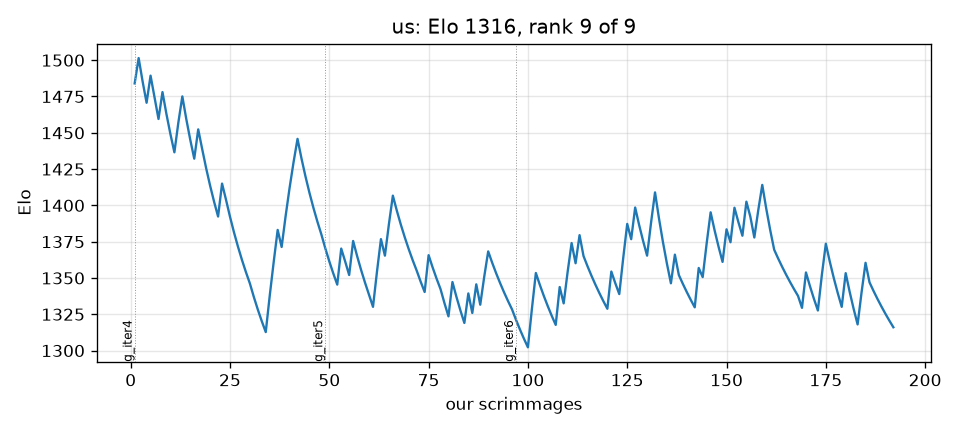
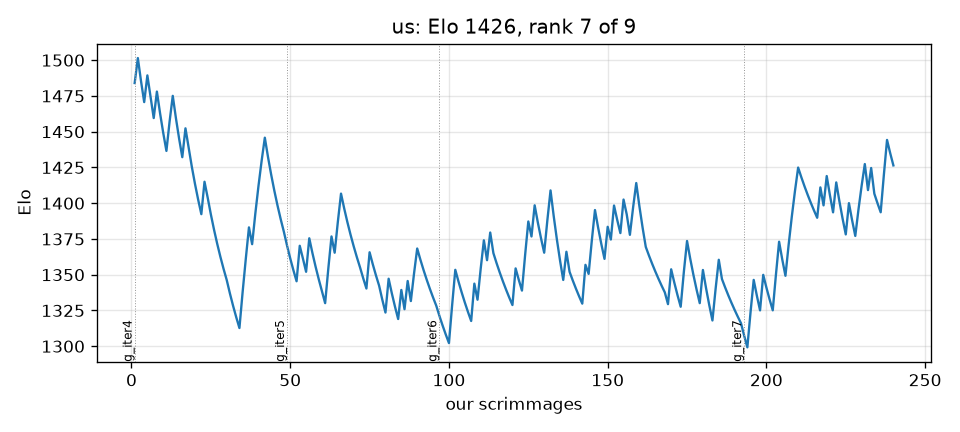
g_iter7 submitted: 19/48 (39.6%), the first submission to beat its predecessors; regression 32/32; the opening fix transferred to the ladder where two previous accepts did not
Claude-Session: https://claude.ai/code/session_01VgeNHsn9ncLsLui8RaK6L7

diff --git a/progress/ELO.md b/progress/ELO.md
@@ -1,17 +1,17 @@
 # Elo ladder
 
-192 scrimmages (ours only); K=32 from 1500; our team is **us**: rank 9 of 9 rated bots, Elo 1316, 192 games; 57 bots not yet met.
+240 scrimmages (ours only); K=32 from 1500; our team is **us**: rank 7 of 9 rated bots, Elo 1426, 240 games; 57 bots not yet met.
 
 | rank | bot | Elo | games | W-L (theirs) |
 |---|---|---|---|---|
-| 1 | awesomelemonade.sprint1bot | 1655 | 24 | 23-1 |
-| 2 | rzhan11.sprint2 | 1638 | 24 | 23-1 |
-| 3 | Scott-Poole.spright8 | 1541 | 24 | 18-6 |
-| 4 | iliao2345.attacker | 1508 | 24 | 18-6 |
-| 5 | 123kevinlee.atomFinalQualifier | 1486 | 24 | 16-8 |
-| 6 | jmerle.camel_case_v7_sprint_2 | 1475 | 24 | 16-8 |
-| 7 | arya-k.quals_v1 | 1452 | 24 | 13-11 |
-| 8 | max-titov.sprintplayer | 1429 | 24 | 12-12 |
-| 9 | **us** | 1316 | 192 | 53-139 |
+| 1 | awesomelemonade.sprint1bot | 1690 | 30 | 29-1 |
+| 2 | rzhan11.sprint2 | 1618 | 30 | 27-3 |
+| 3 | jmerle.camel_case_v7_sprint_2 | 1513 | 30 | 21-9 |
+| 4 | Scott-Poole.spright8 | 1493 | 30 | 21-9 |
+| 5 | iliao2345.attacker | 1483 | 30 | 21-9 |
+| 6 | 123kevinlee.atomFinalQualifier | 1477 | 30 | 20-10 |
+| 7 | **us** | 1426 | 240 | 72-168 |
+| 8 | arya-k.quals_v1 | 1400 | 30 | 15-15 |
+| 9 | max-titov.sprintplayer | 1400 | 30 | 14-16 |
 
 Not yet met (1500 until their first game against us): Ahhorse1.WinstonPlayer, Aryan34.bot, Aryo-Patel.finalBot, BSreenivas0713.musketeerplayerfinal, BattlecodeTeam4.robotalpha, BoluAdubi.bot1, BryceKan3.bot.tournament.sprint, ChiragKalra.gen5, IvanGeffner.thirtyone, JCRaymond.bot.tournament.sprint, JasonYe4273.finals, Mahpare.hackatrainee_v1, OliverMKing.bot.tournament.sprint, SLaGrave.AlphaCentauri, Sihal3.cavShieldv705, StoneT2000.sprinttuna, TeamSerpentine.mars, Techno-coder.muckrakers, TylerQube.sandmenplayer, Victoriano012.SprintBot2, VittalT.final_usqualplayer3_subm, abhishekshree.bot2, aidan-mundy.final_usqualplayer3_subm, alextheimer.player, ama29.v6, angelaloh09.camelmanplayer, anshgs.ho4, astelmach20.piedPiper, davidfang00.Rushbot3, diegorod9000.Newcomer, dominicmkennedy.playerj3, edlwang.sprint2, ehiggins98.initialbot, evan-schott.bugplayer, iyzg.sbot17, jay20162016.ecobot, jjtippetts.influencerforceplayer, mama4294.Maloneplayer, mhahn2003.finals, mhbtz1.presprint, mvpatel2000.biden, naalit.mukrush, nickel-dime.piedPiper, nsortur.piedPiper, paulmure.sprintplayer, pranayagra.finalbot11, qawsedrftgzh.battlecode2021, raytran.dlmoreram010921, rqi3.qualification_bot, ryanbai1412.sprint_0, saivivekvenna.Ba_ba_booie, sasank02.framework3_mr_density, thevaliantthird.bot1, unai-gurbindo.camelmanplayer, winkelmantanner.tannerplayer, woodstockcs.fanandflag, wstan2001.boundfinder

diff --git a/TRAINING_LOG.md b/TRAINING_LOG.md
@@ -2935,6 +2935,40 @@ promising and moved nothing). And the confound audit -- without demoting
 raw metrics I would have spent this candidate on early politician counts,
 which were an artefact of map size.
 
+## `g_iter7` submitted: 19/48 = 39.6% -- the ladder finally moves (2026-09-20 11:40 UTC)
+
+Regression first: **32/32**, a clean sweep of all four archetypes
+(muckraker rush, bidder, politician rush, `arch_big`), up from 31/32.
+
+| submission | block | rate | 95% |
+|---|---|---|---|
+| `g_iter4` | 14/48 | 29.2% | 18.2-43.2% |
+| `g_iter5` | 12/48 | 25.0% | 14.9-38.8% |
+| `g_iter6` | 27/96 | 28.1% | 20.1-37.8% |
+| **`g_iter7`** | **19/48** | **39.6%** | 27.0-53.7% |
+
+**The first submission to beat its predecessors**, and against the same
+eight opponents. Per opponent: arya-k 4/6 and max-titov 4/6, Scott-Poole
+and iliao2345 3/6 (from 2/6 and 2/6), rzhan11 **2/6 after 0/12 across two
+blocks**. Still 0/6 against awesomelemonade, now 0/18.
+
+**What moved it.** Not a new mechanism -- the opening build order. We were
+spending the first eight rounds on four 1-influence scouts, deploying a
+107-influence slanderer at r9, then fragmenting the rest into 21s earning
+1/round. The opponents put their whole 150 into a 130-influence slanderer
+at r1. Fixing that was worth +19 points in self-play and, unlike the two
+previous accepts, it carried to the ladder.
+
+**Why this one transferred when the others did not.** The `danger` fix and
+the slanderer caps repaired our behaviour *relative to our own past*; this
+one closed a gap measured directly against the opponents' opening. The
+method's value was in finding it: the confound audit left the
+unit-influence lead as the only honest early predictor, the gap tables put
+the damage before r50, and the event stream showed the exact sequence.
+
+Note the intervals still overlap (27.0-53.7% against 20.1-37.8%), so this
+is suggestive, not proven. The next block continues it.
+
 ## Standing tables (updated in place)
 
 ### Functional-area map
